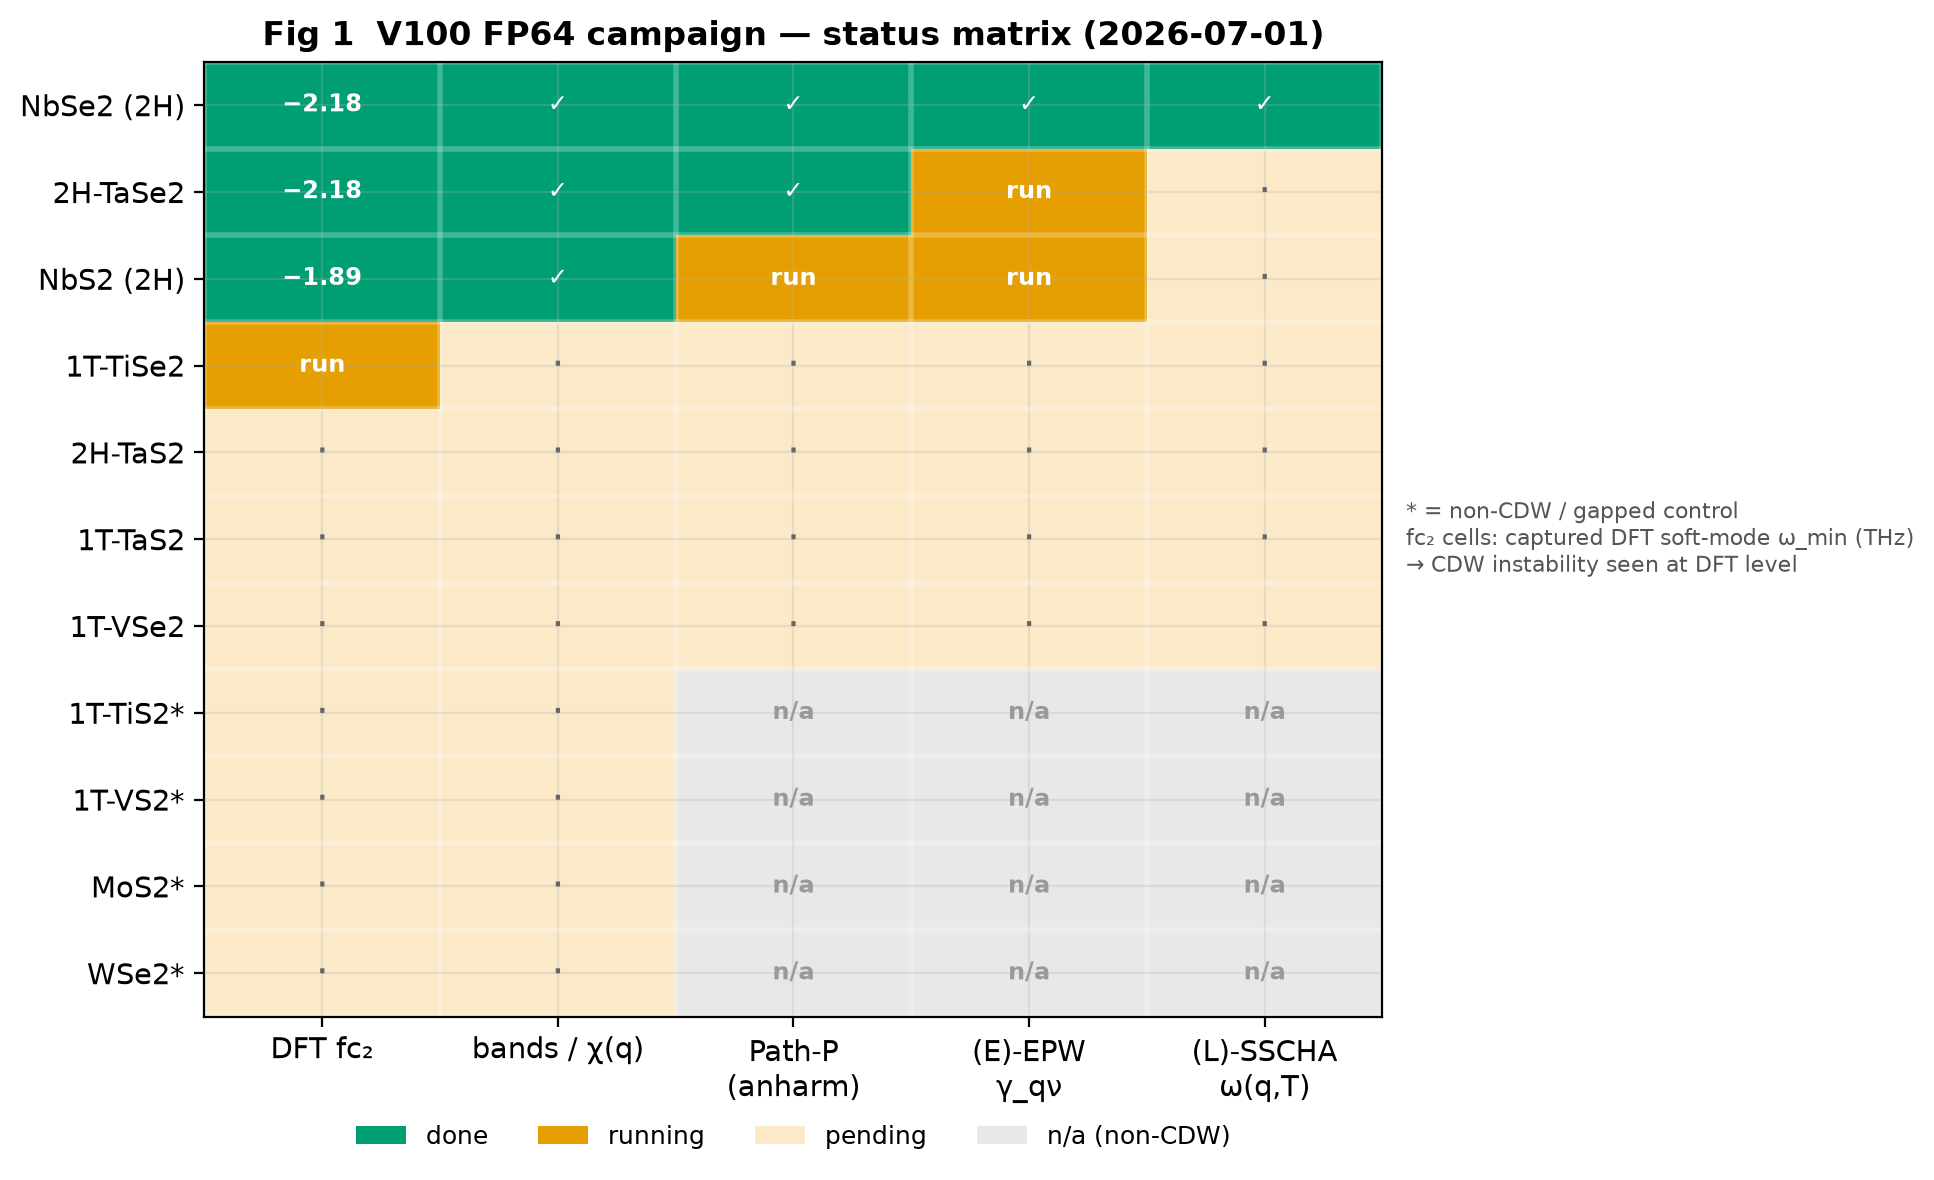
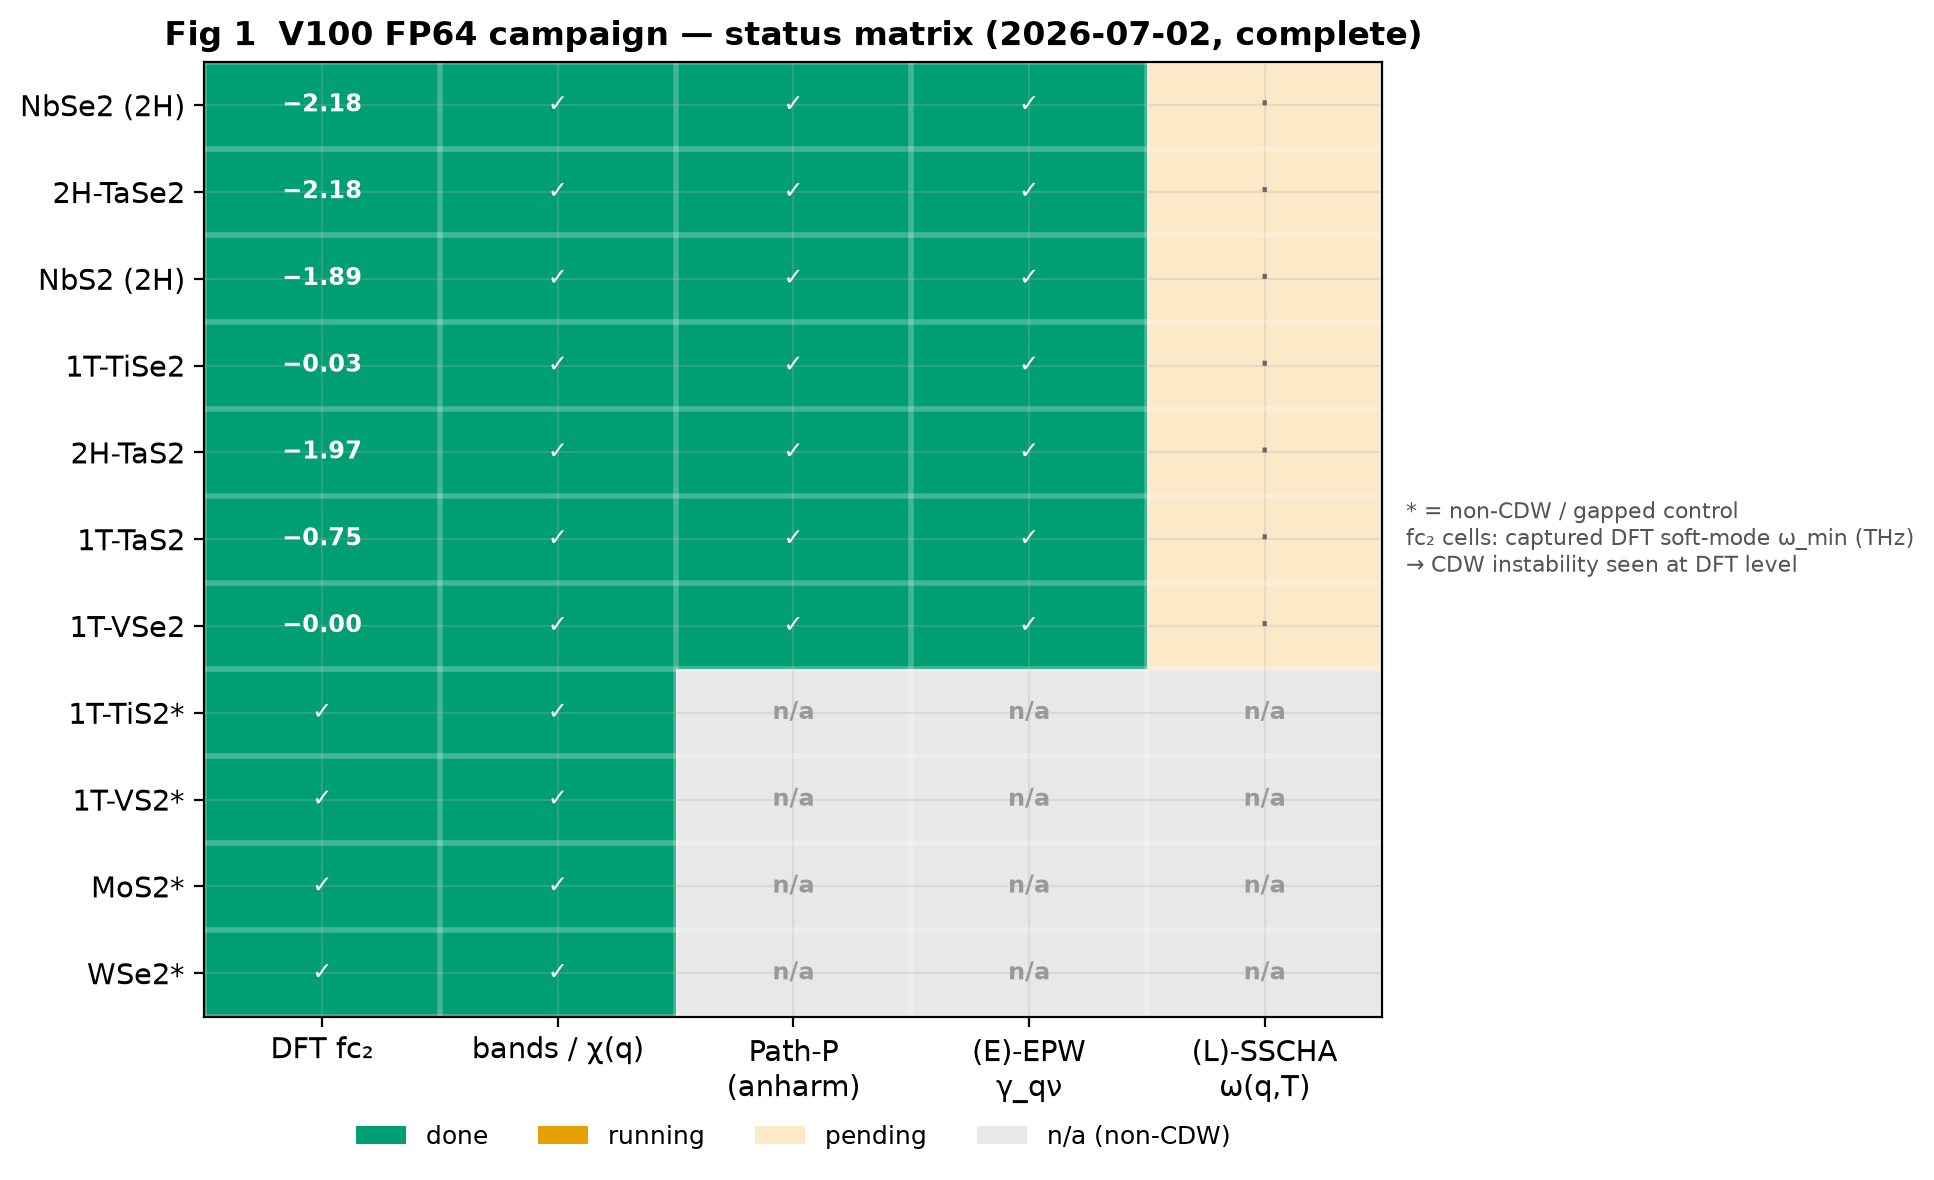
Weekly report: λ-divergence fix methods, campaign-complete update, + Chinese version
- §3.2: consolidated the three λ-divergence fix methods (report γ_qν ✅ /
  degauss-hardening ⚠qualitative / nkf48+NQ6+ASR convergence ◻in-flight)
- Live update to 2026-07-02: V100 family campaign COMPLETE — all 11 DFT
  fc₂+bands, 7 CDW Path-P, 7 CDW (E)-EPW γ_qν. Added full 11-material fc₂
  truth table (2H CDWs captured, 0 false positives, 1T off-commensurate)
  and the 7-material γ_qν table (2H strong-EPC vs 1T off-instability).
- Corrected stale "oversubscription resolved" note (jlq6 still running ~27h).
- Appended a complete Chinese version with all 8 figures embedded.
- Regenerated fig1 status matrix to the campaign-complete state.

Changed region(s): [[0.0931, 0.0, 0.7446, 0.8847]]

diff --git a/docs/weekly/plot_weekly.py b/docs/weekly/plot_weekly.py
@@ -34,20 +34,21 @@ def fig1_status_matrix():
               "(E)-EPW\nγ_qν", "(L)-SSCHA\nω(q,T)"]
     # 0 N/A(control) · 1 pending · 2 running · 3 done
     S = np.array([
-        [3,3,3,3,3],   # NbSe2  — all done (Part-I flagship)
-        [3,3,3,2,1],   # 2H-TaSe2 — fc2/bands/PathP done, EPW running (box B), SSCHA pending
-        [3,3,2,2,1],   # NbS2 — fc2/bands done, PathP running, EPW running (box A)
-        [2,1,1,1,1],   # 1T-TiSe2 — fc2 running (box B)
-        [1,1,1,1,1],   # 2H-TaS2
-        [1,1,1,1,1],   # 1T-TaS2
-        [1,1,1,1,1],   # 1T-VSe2
-        [1,1,0,0,0],   # 1T-TiS2 (control) — fc2/bands only
-        [1,1,0,0,0],   # 1T-VS2  (control)
-        [1,1,0,0,0],   # MoS2    (gapped control)
-        [1,1,0,0,0],   # WSe2    (gapped control)
+        [3,3,3,3,1],   # NbSe2   — fc2/bands/PathP/EPW done; SSCHA pending (H20 offline)
+        [3,3,3,3,1],   # 2H-TaSe2 — complete; SSCHA pending
+        [3,3,3,3,1],   # NbS2    — complete; SSCHA pending
+        [3,3,3,3,1],   # 1T-TiSe2 — complete; EPW off-instability (3×3 stable) → re-run 2×2
+        [3,3,3,3,1],   # 2H-TaS2 — complete; SSCHA pending
+        [3,3,3,3,1],   # 1T-TaS2 — complete; soft mode partial (true CDW √13×√13)
+        [3,3,3,3,1],   # 1T-VSe2 — complete; EPW off-instability (3×3 stable) → re-run
+        [3,3,0,0,0],   # 1T-TiS2 (control) — fc2/bands only
+        [3,3,0,0,0],   # 1T-VS2  (control)
+        [3,3,0,0,0],   # MoS2    (gapped control)
+        [3,3,0,0,0],   # WSe2    (gapped control)
     ])
     # annotations: captured DFT soft modes (THz) on fc2-done cells
-    soft = {(0,0): "−2.18", (1,0): "−2.18", (2,0): "−1.89"}
+    soft = {(0,0): "−2.18", (1,0): "−2.18", (2,0): "−1.89", (3,0): "−0.03",
+            (4,0): "−1.97", (5,0): "−0.75", (6,0): "−0.00"}
     cmap = ListedColormap(["#E8E8E8", "#FbE9C7", CB["orange"], CB["green"]])
     fig, ax = plt.subplots(figsize=(7.6, 6.2))
     ax.imshow(S, cmap=cmap, vmin=0, vmax=3, aspect="auto")
@@ -63,7 +64,7 @@ def fig1_status_matrix():
             c = "white" if S[i, j] >= 2 else ("#999" if S[i, j] == 0 else "#666")
             ax.text(j, i, lbl, ha="center", va="center", color=c,
                     fontsize=8.5, fontweight="bold")
-    ax.set_title("Fig 1  V100 FP64 campaign — status matrix (2026-07-01)")
+    ax.set_title("Fig 1  V100 FP64 campaign — status matrix (2026-07-02, complete)")
     leg = [Patch(fc=CB["green"], label="done"), Patch(fc=CB["orange"], label="running"),
            Patch(fc="#FbE9C7", label="pending"), Patch(fc="#E8E8E8", label="n/a (non-CDW)")]
     ax.legend(handles=leg, ncol=4, loc="upper center", bbox_to_anchor=(0.5, -0.09))
